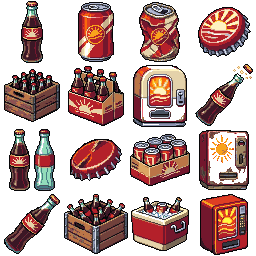
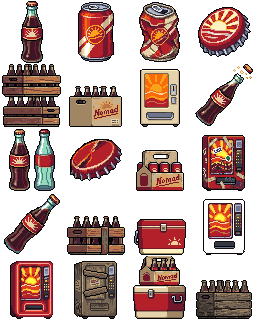
NomadCola: Automaten, Kühlboxen, Kisten in strenger Seitenansicht
Claude-Session: https://claude.ai/code/session_01DEYRZuHG3FTEjzrsxrNdug

diff --git a/test/nomadcola.test.js b/test/nomadcola.test.js
@@ -16,7 +16,7 @@ test('Gegenstände: NomadCola (Buff), leere Dose, Kronkorken mit Bild und Marke;
 });
 test('Automaten als Deko (Bild aus dem Symbol-Raster) und als Marken-Clutter der Tankstelle', () => {
   assert.ok(DECOR_ARTS.some(([k]) => k === 'icon'));
-  for (const id of ['cola_automat', 'cola_automat_retro', 'cola_automat_rost', 'cola_kuehlbox', 'cola_kiste']) { const d = D.decor[id]; assert.equal(d.art, 'icon'); assert.ok(d.icon < names.length, id); }
+  for (const id of ['cola_automat', 'cola_automat_retro', 'cola_automat_rost', 'cola_automat_neon', 'cola_kuehlbox', 'cola_kiste']) { const d = D.decor[id]; assert.equal(d.art, 'icon'); assert.ok(d.icon < names.length, id); }
   const rows = D.pois.tankstelle_km7.brandProps;
   assert.ok(rows.some(r => /Automat/.test(r.name)));
   for (const r of rows) assert.ok(D.assets[r.look].names.includes(r.name), r.name);

diff --git a/docs/assets.md b/docs/assets.md
@@ -157,7 +157,7 @@ Pfade relativ zu `projects/nomadgirl/`. In Klammern die ID im Werkstatt-Bereich 
 | `assets/map/logos.png`, `logos/*.png` | Marken der Spielwelt: Delta Petrol, Neon-Nudel, Kessler Kybernetik, NomadCola, Motel Salzsee, Ordnungsamt Delta, Krähe & Söhne Schrott, Kilometerkönig (`map_logos`, 4 × 2 à 64 px) | KI (PixelLab, Create Image Pro je Marke, AAP-64, bester von 16) + Code (Raster) | 13.11.2026 |
 | `assets/map/logos/neurolux.png`, `vulkan.png`, `backalley_chrome.png`, `ghostwire.png`, `chroma_kill.png`, `kessler_kosmetik.png`, `deltatint.png` | Marken-Logos für Lore › Marken (#046), im Raster `map_logos` Felder 8–14 (Raster jetzt 4 × 4); je Marke Create Image Pro 64 px, Stilbild = altes Logo-Raster, AAP-64, bester von 16 Kandidaten (DeltaTint und Vulkan: Kandidatenbogen versetzt geschnitten geliefert, per Code neu geschnitten), auf AAP-64 eingerastet | KI (PixelLab) | 16.11.2026 |
 | `assets/map/logos/nomadcola.png` (Feld 3 im Raster `map_logos`) | Neues NomadCola-Logo (Daniel, 17.11.2026: „NomadCola soll eine der elementaren Brands sein … Logo, in dem man den Namen erkennt“): Kronkorken-Rand, Wüstensonne, Flasche, Band | KI (PixelLab, Create Image Pro 64 px, Stilbild = Logo-Raster, AAP-64, bester von 16; Kandidaten aus dem verschobenen 4 × 4-Mosaik neu geschnitten) + Code (Schriftzug „NOMADCOLA“ von Hand gepixelt); altes Logo und Rohling ohne Schrift in `logos/v1/` | 17.11.2026 |
-| `assets/items/nomadcola.png`, `nomadcola/*.png` | NomadCola-Produkte (`icons_nomadcola`, 4 × 4 à 64 px): Flaschen, Dosen, Kronkorken, Kisten, Kühlbox, drei Automaten, zum Wiederverwenden als Gegenstände, Deko, Clutter | KI (PixelLab, Create Image Pro 64 px, Stilbild = Logo-Raster, AAP-64, alle 16 Kandidaten) | 17.11.2026 |
+| `assets/items/nomadcola.png`, `nomadcola/*.png` | NomadCola-Produkte (`icons_nomadcola`, 4 × 5 à 64 px): Flaschen, Dosen, Kronkorken (Inventar) und alles, was in der Welt steht (fünf Automaten, Kühlboxen, Kisten, Sechserpack) | KI (PixelLab, Create Image Pro 64 px, AAP-64): Inventar-Bilder aus dem ersten Auftrag (Stilbild Logo-Raster); Welt-Sachen neu aus zwei Aufträgen in strenger Seitenansicht (Stilbild TileSet00 Großer Clutter, Daniel: „Perspektive nicht orthogonal genug“), unten bündig per Code; alte Fassung `items/v1/nomadcola_v1.png` | 17.11.2026 |
 | `assets/intro/panel_<n>.png`, `raw/panel_<n>.png` | Intro-Comic (#005): 8 Panels Klinikturm, Alarm, Flucht, Notstrom, Erstes Camp, Tankstelle Kilometer 7, Null Tage, AvA erwacht (`intro_panel_*`), Originale mit Rand (`intro_panel_*_source`) | KI (PixelLab, Create Image Pro 688 × 384, AAP-64, Referenzen: Daniels Storyboard, Leyla-Sheet, Cryo-Tank, Van, Anhänger, Drohne) + Code (Rand abgeschnitten, „5“ übermalt) | 12.11.2026 |
 | `assets/workshops/treasury_cyber.png`, `treasury_cyber_empty.png`, `treasury_candidates/*` | Trophäenraum im Cyberpunk-Stil, voll/leer, 3 Kandidaten (#003) (`ws_treasury_cyber*`) | KI (PixelLab, Create Image Pro + Edit Pro Flash) + Code (Beutehaufen übernommen) | 12.11.2026 |
 | `assets/workshops/treasury_hall.png`, `treasury_hall_empty.png` | Trophäenraum „Hall of Loot“ voll/leer (Kandidat 2, Daniel 13.11.2026, #014) (`ws_treasury_hall*`) | KI (PixelLab, Create Image Pro, Seed 302) + Code (Beutehaufen aus `ws_treasury_cyber`, verkleinert, auf AAP-64 eingerastet) | 13.11.2026 |

diff --git a/docs/changelog.md b/docs/changelog.md
@@ -2,6 +2,7 @@
 
 Verlauf: was wann gebaut wurde (früher `CLAUDE.md` › Stand). Neue Einträge oben.
 
+- 17.11.2026: **NomadCola-Sachen in Seitenansicht** (Daniel: „Perspektive nicht orthogonal genug“): Automaten, Kühlboxen, Kisten, Sechserpack neu von PixelLab streng von vorn/der Seite; dazu Neon-Automat (Deko + Clutter), vernagelter Automat, Kistenstapel.
 - 17.11.2026: **NomadCola im Spiel**: Getränk (Buff Flink), leere Dose, Kronkorken mit Bild in der Tankstellen- und Plünderer-Beute; Automaten, Kühlbox und Kiste als Kauf-Deko (neue Deko-Art „Bild aus einem Symbol-Raster“); Marken-Clutter an der Mile 7 Gas & Go (POIs › Marken-Clutter).
 - 17.11.2026: **NomadCola-Logo und -Produkte**: neues Logo mit lesbarem Schriftzug (PixelLab + Schrift von Hand), 16 Produkt-Symbole zum Wiederverwenden (Flaschen, Dosen, Kisten, Automaten).
 - 17.11.2026: **AtomCola heißt jetzt NomadCola** (Marke, Logo-Datei, Texte; alte Reisekarten werden beim Laden umbenannt).
